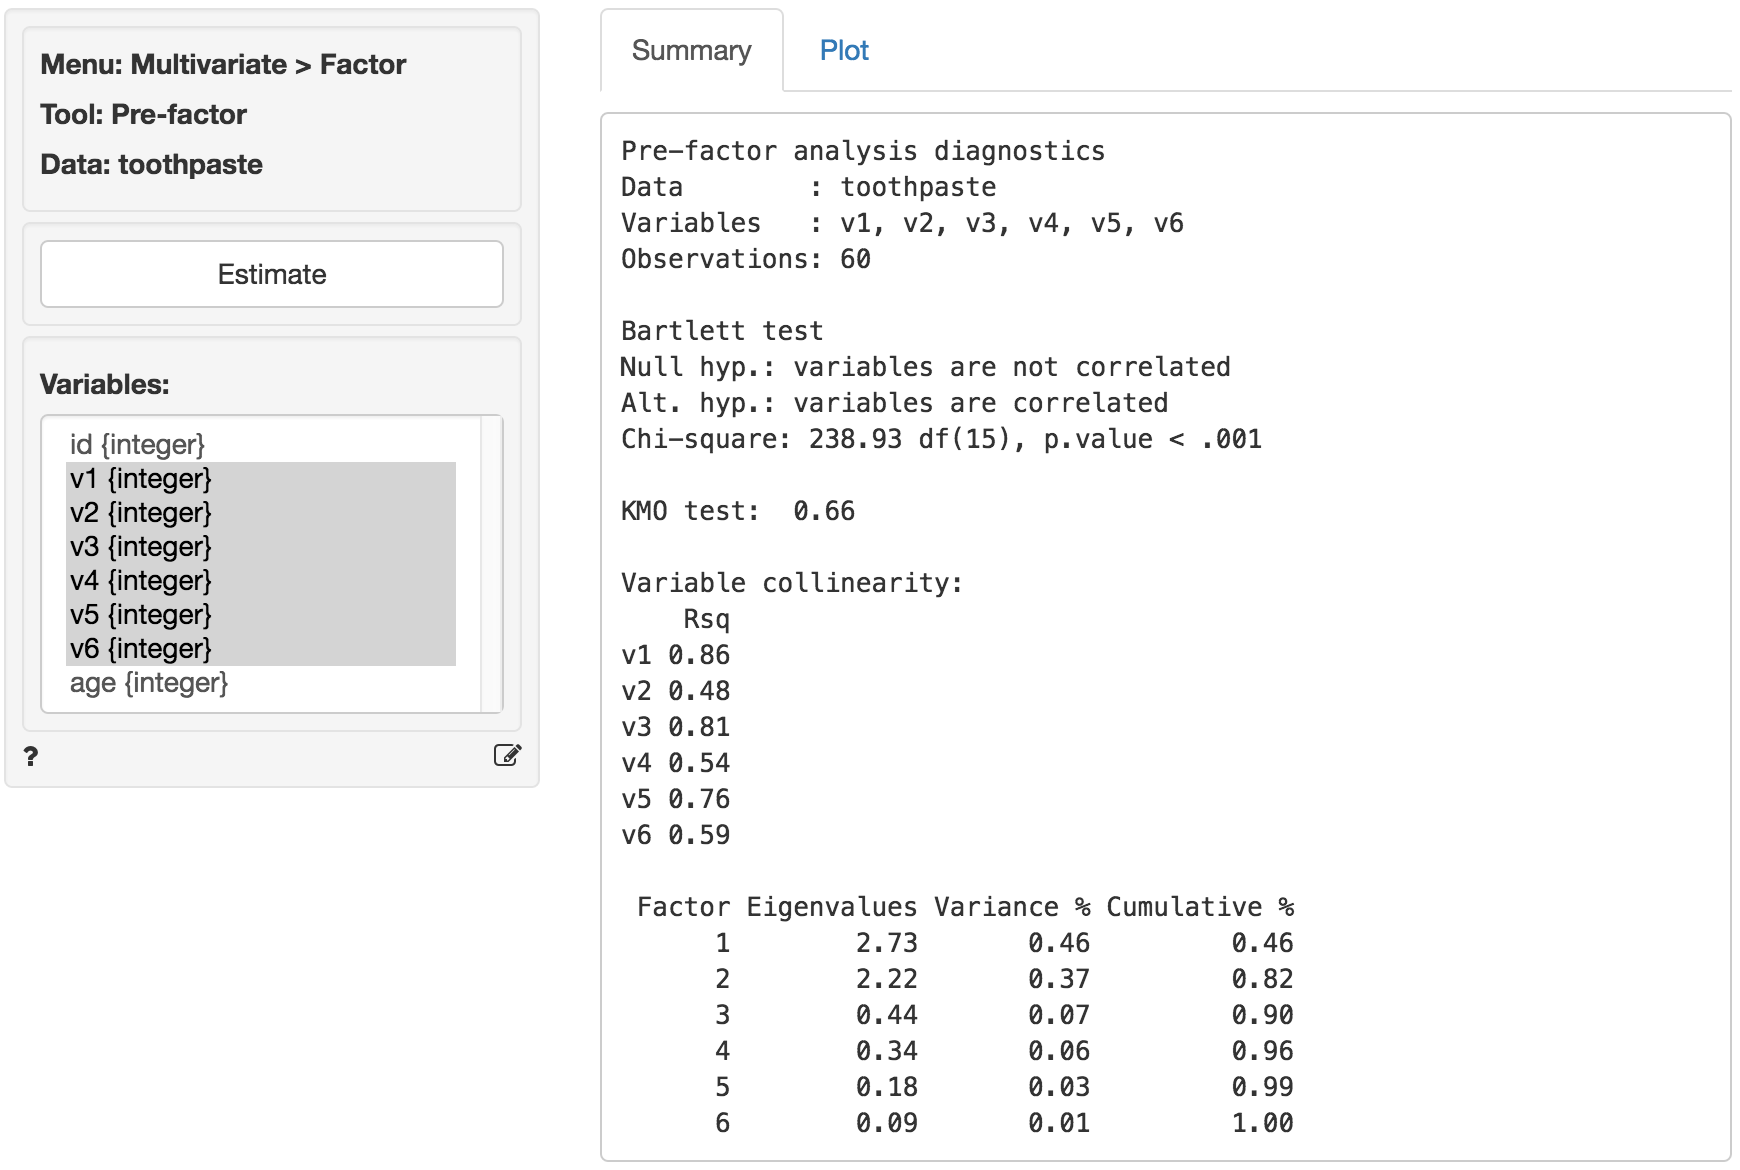
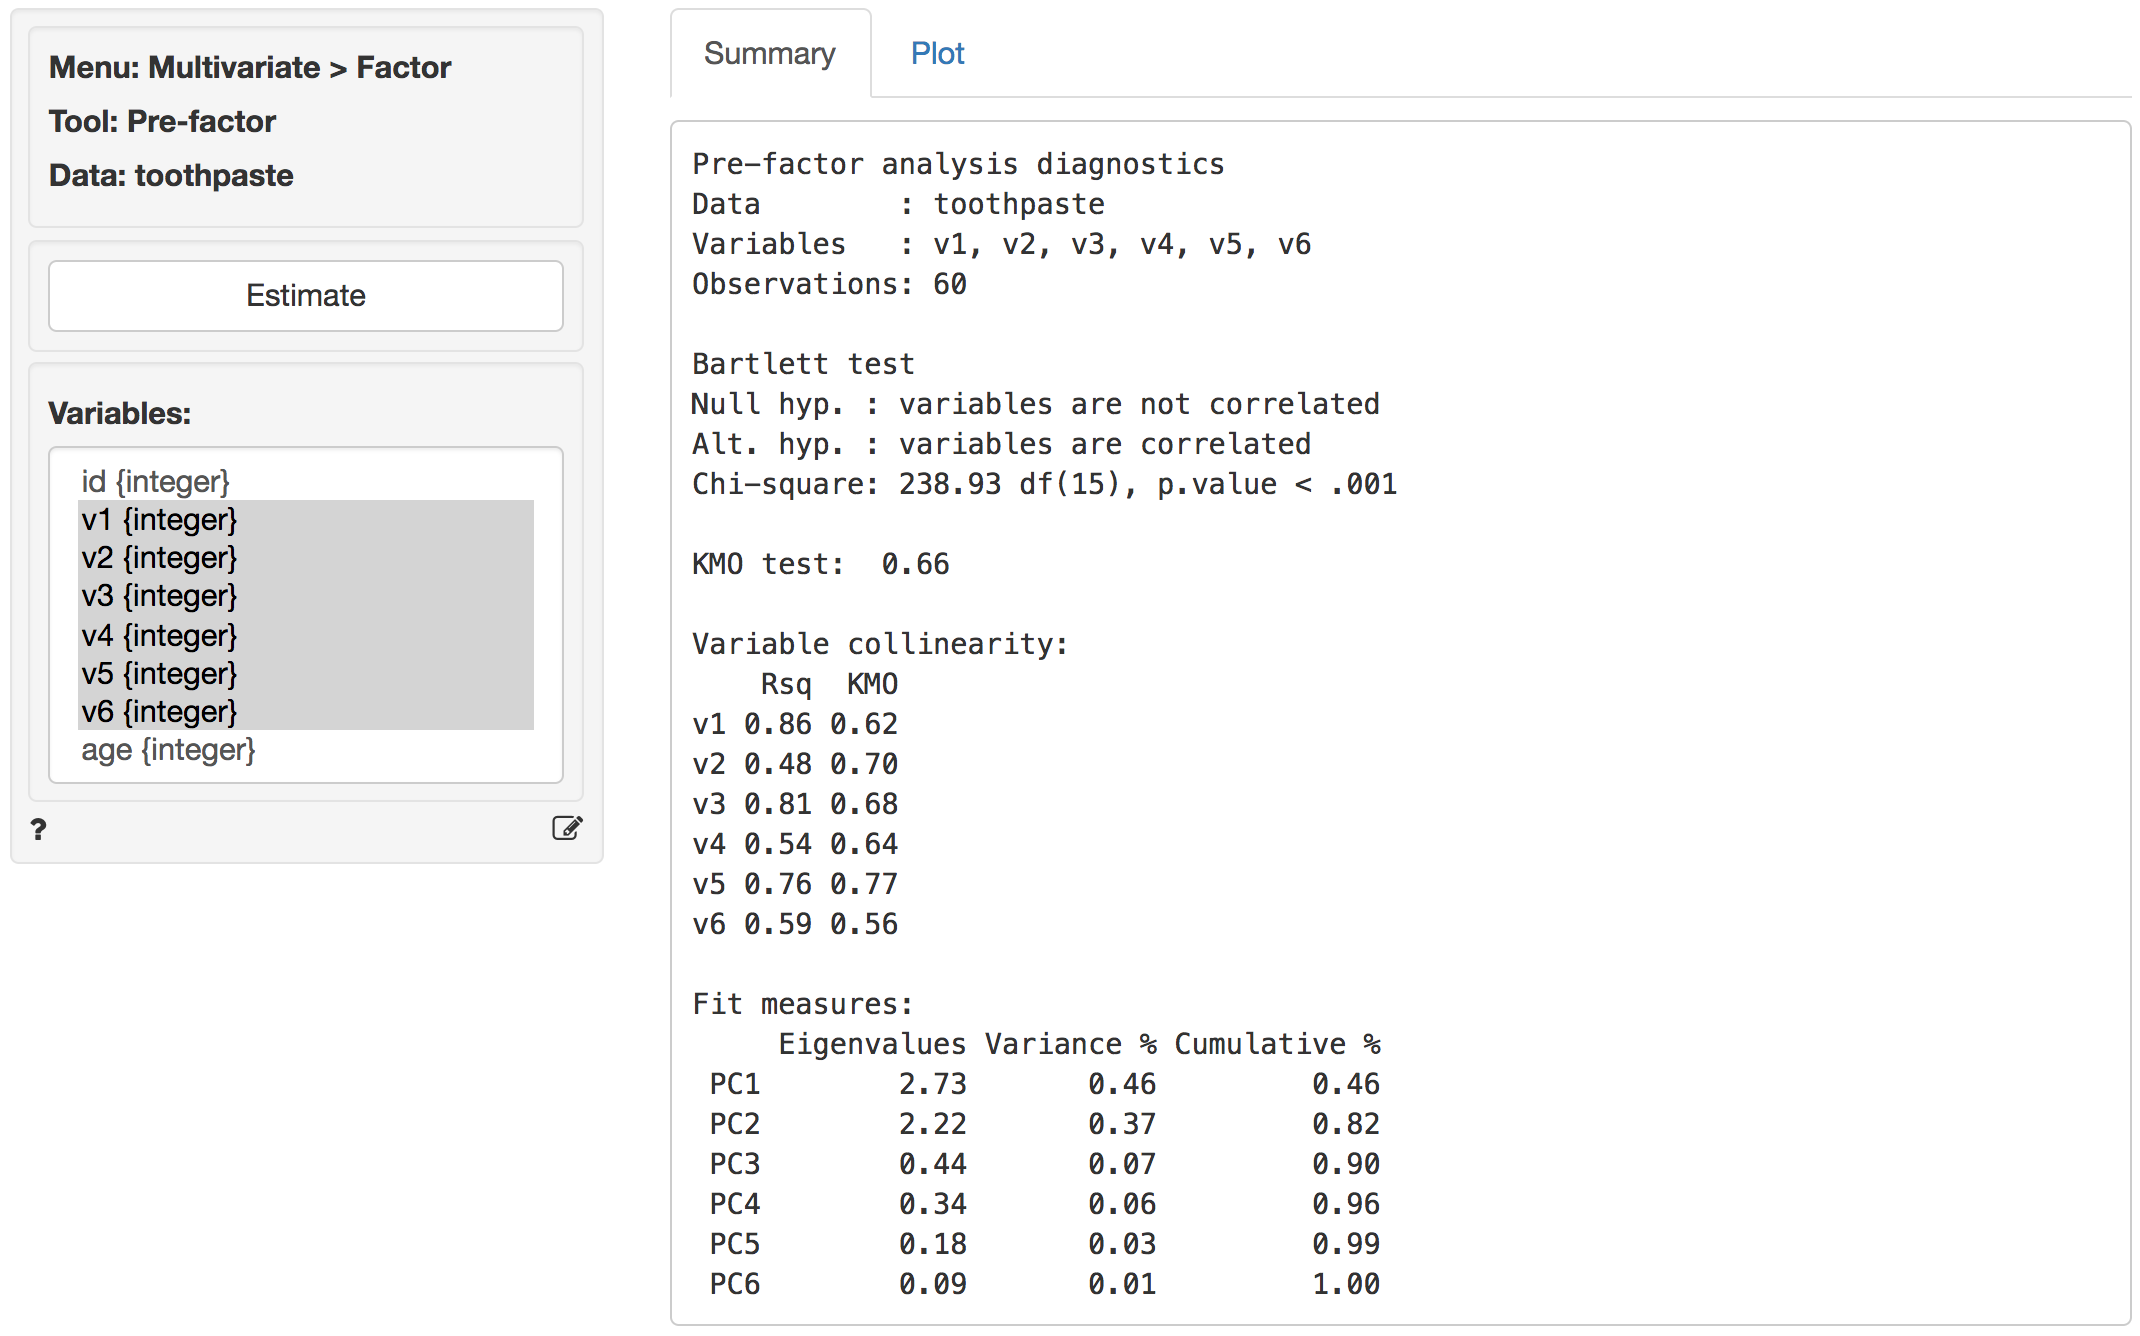
docs

diff --git a/inst/app/tools/help/pre_factor.md b/inst/app/tools/help/pre_factor.md
@@ -8,9 +8,9 @@ First, go to the _Data > Manage_ tab, select **examples** from the `Load data of
 
 The first step in factor analysis is to determine if the data has the required characteristics. Data with limited or no correlation between the variables are not appropriate for factor analysis. We will use three criteria to test if the data are suitable for factor analysis:  Bartlett, KMO, and Collinearity for each variable
 
-The KMO and Bartlett test evaluate all available data together. A KMO value over 0.6 and a significance level for the Bartlett’s test below .05 suggest there is substantial correlation in the data. Variable collinearity indicates how strongly a single variable is correlated with other variables. Values above .4 are considered appropriate.
+The KMO and Bartlett test evaluate all available data together. A KMO value over 0.5 and a significance level for the Bartlett’s test below 0.05 suggest there is substantial correlation in the data. Variable collinearity indicates how strongly a single variable is correlated with other variables. Values above 0.4 are considered appropriate. KMO measures can also be calculated for each variable. Values above 0.5 are acceptable.
 
-As can be seen in the output from _Multivariate > Factor > Pre-factor_ below, Bartlett's test statistic is large and significant (p.value close to 0) as desired. The Kaiser-Meyer-Olkin (KMO) measure is larger than .6 and thus acceptable. The variable collinearity values are all above .4 so all variables can be used in the analysis.
+As can be seen in the output from _Multivariate > Factor > Pre-factor_ below, Bartlett's test statistic is large and significant (p.value close to 0) as desired. The Kaiser-Meyer-Olkin (KMO) measure is larger than .5 and thus acceptable. The variable collinearity values are above 0.4 and the KMO values are above 0.5 so all variables can be used in the analysis.
 
 To replicate the results shown in the screenshot make sure you have the `toothpaste` data loaded. Then select variables `v1` through `v6` and click the `Estimate` button or press `CTRL-enter` (`CMD-enter` on mac) to generate results.
 
@@ -20,11 +20,11 @@ The next step is to determine the number of factors needed to capture the struct
 
 A further criteria that is often used to determine the number of factors is the scree-plot. This is a plot of the eigenvalues against the number of factors, in order of extraction. Often a break or _elbow_ is visible in the plot. Factors up to and including this elbow are selected for further analysis if they all have eigenvalues above 1. A set of factors that explain more than 70% of the variance in the original data is generally considered acceptable. The eigenvalues for all factors are shown above. Only two factors have eigenvalues above 1.
 
-At first glance the scree-plot of the Eigenvalues shown below seems to suggest that 3 factors should be extracted (i.e., look for the _elbow_). However, because the value for the third factor is less than one we will extract only 2 factors.
+At first glance the scree-plot of the Eigenvalues shown below seems to suggest that 3 factors should be extracted (i.e., look for the _elbow_). The bar plot confirms this insight, i.e., the change in Eigenvalues between factors 1 and 2 is small but the drop-off from 2 to 3 is much larger. However, because the value for the third factor is less than one we will extract only 2 factors.
 
 <p align="center"><img src="figures_multivariate/pre_factor_plot.png"></p>
 
-The increase in cumulative % explained variance is relatively small going from 2 to 3 factors (i.e., from 82% to 90%). This is confirmed by the fact that the eigenvalue for factor 3 is smaller than 1 (.44). Again, we choose 2 factors. The first 2 factors capture 82% of the variance in the original data which is excellent.
+The increase in cumulative % explained variance is relatively small going from 2 to 3 factors (i.e., from 82% to 90%). This is confirmed by the fact that the eigenvalue for factor 3 is smaller than 1 (0.44). Again, we choose 2 factors. The first 2 factors capture 82% of the variance in the original data which is excellent.
 
 ### R > Report
 
